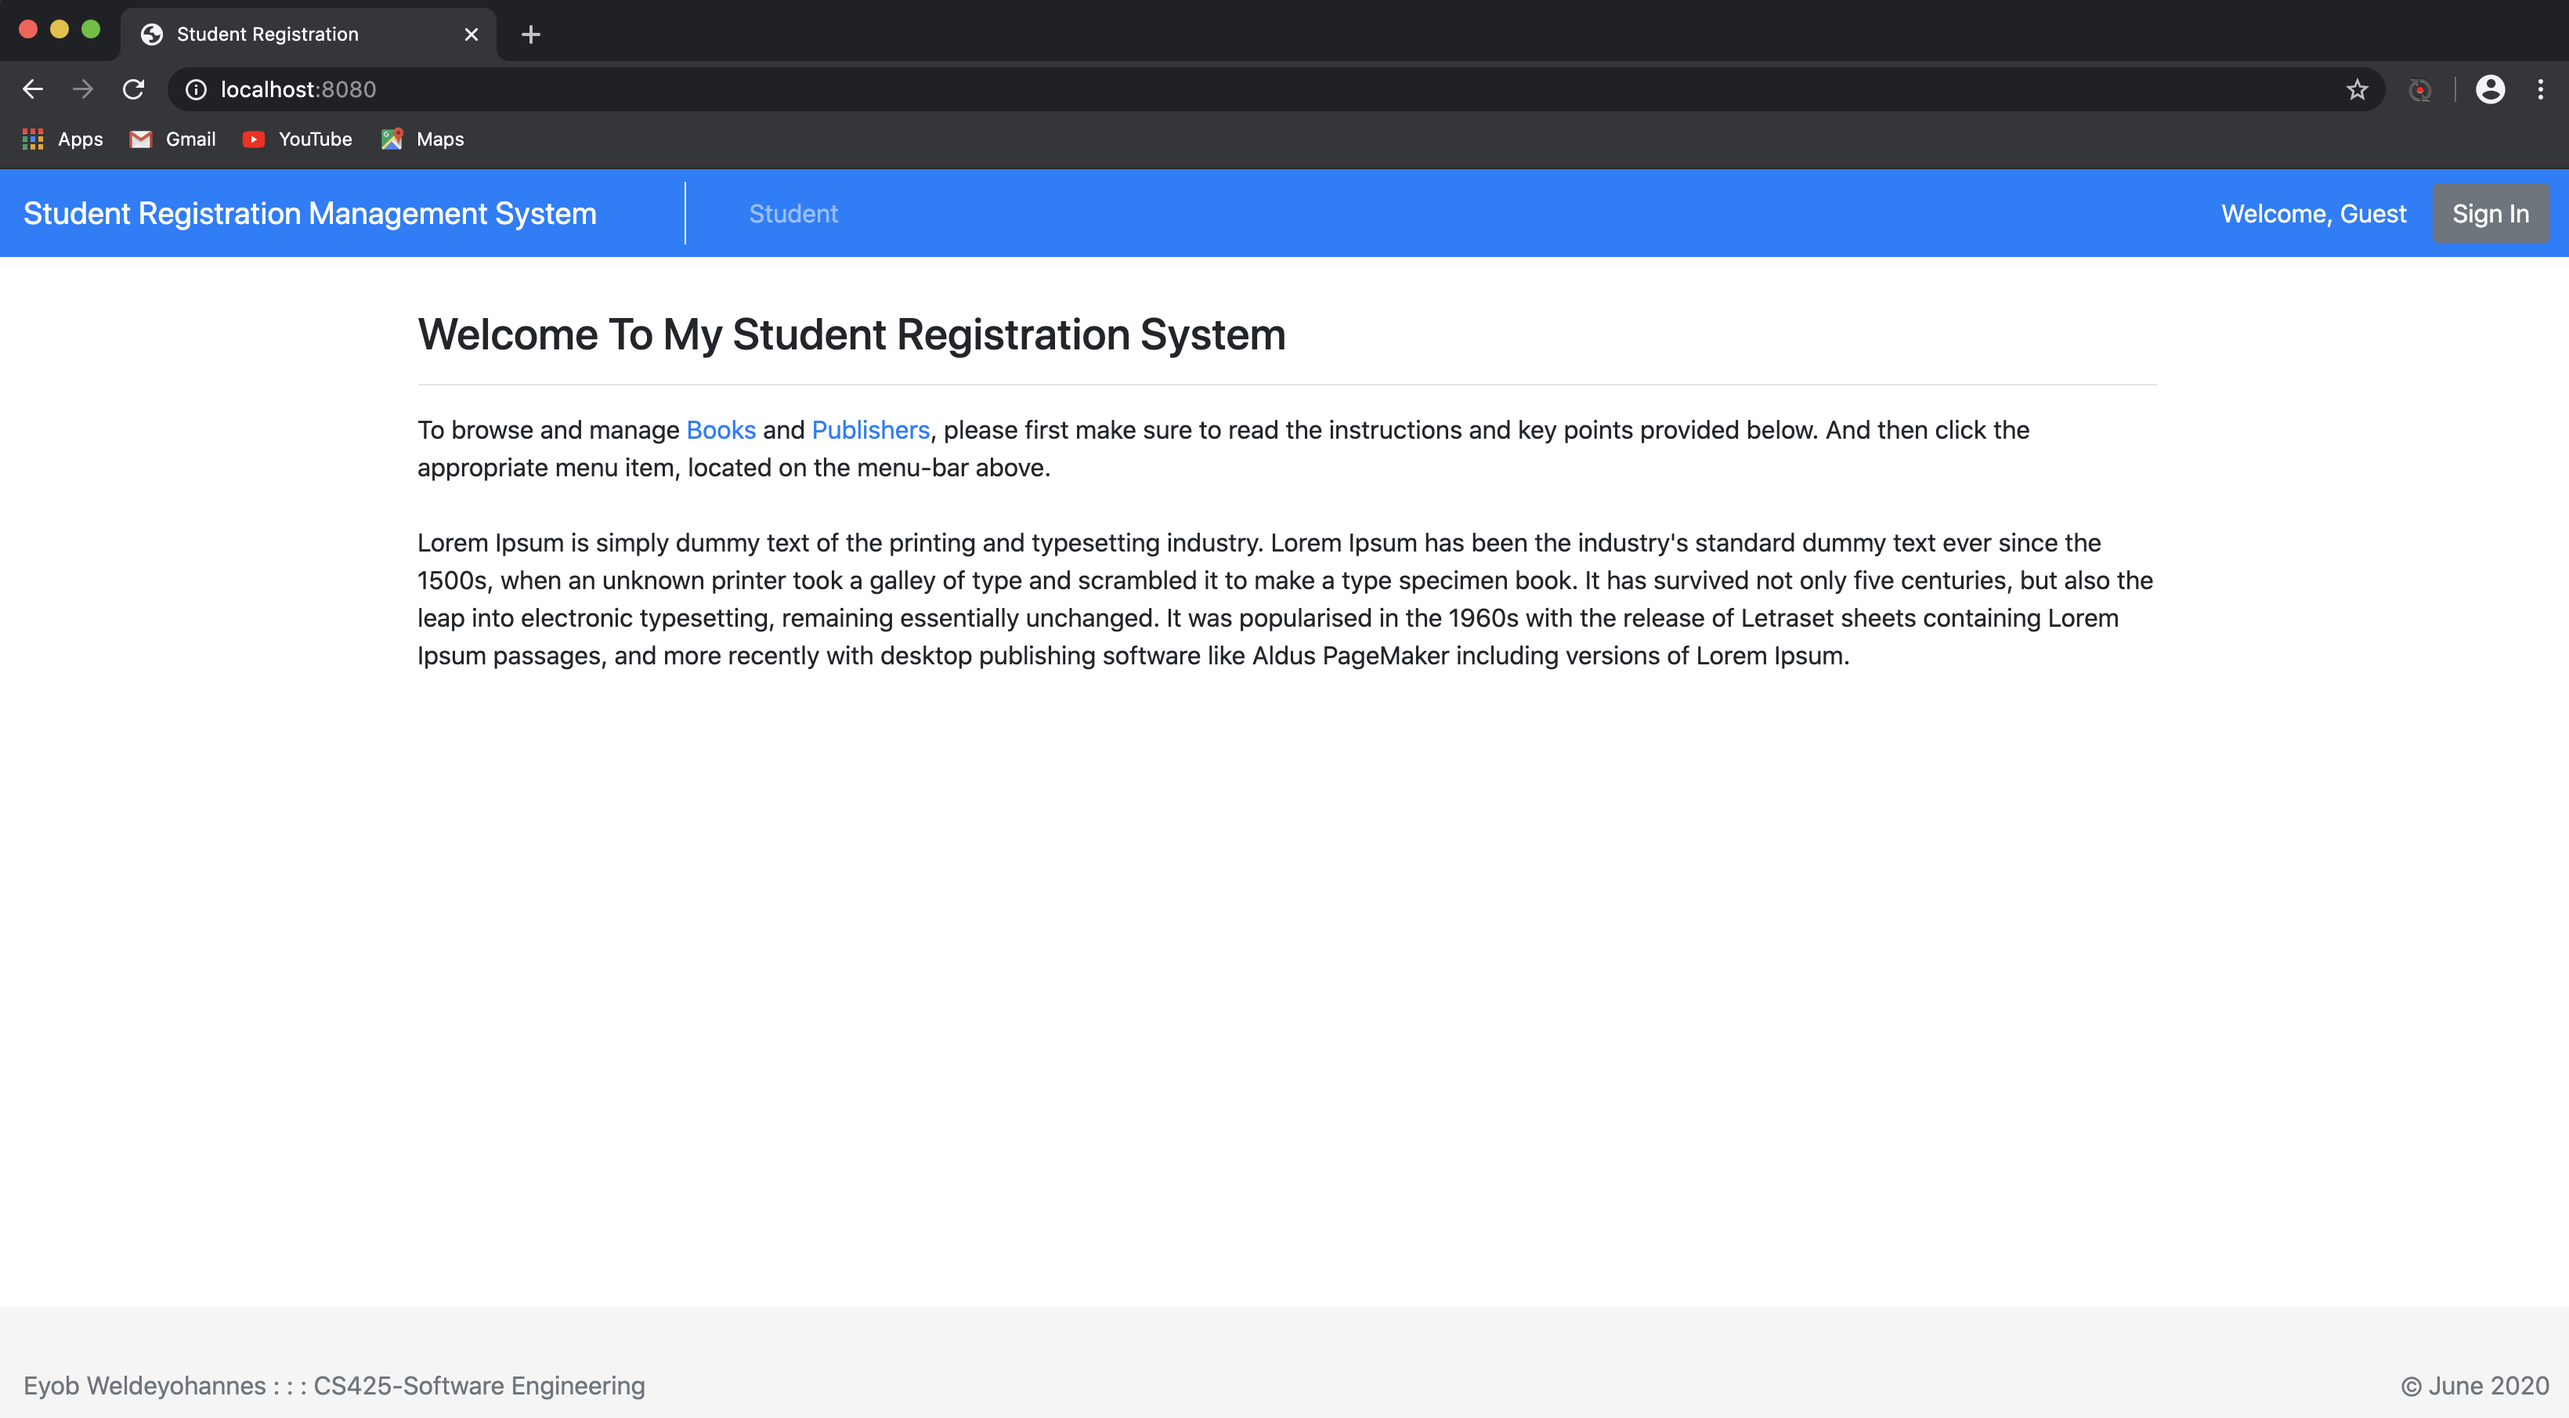
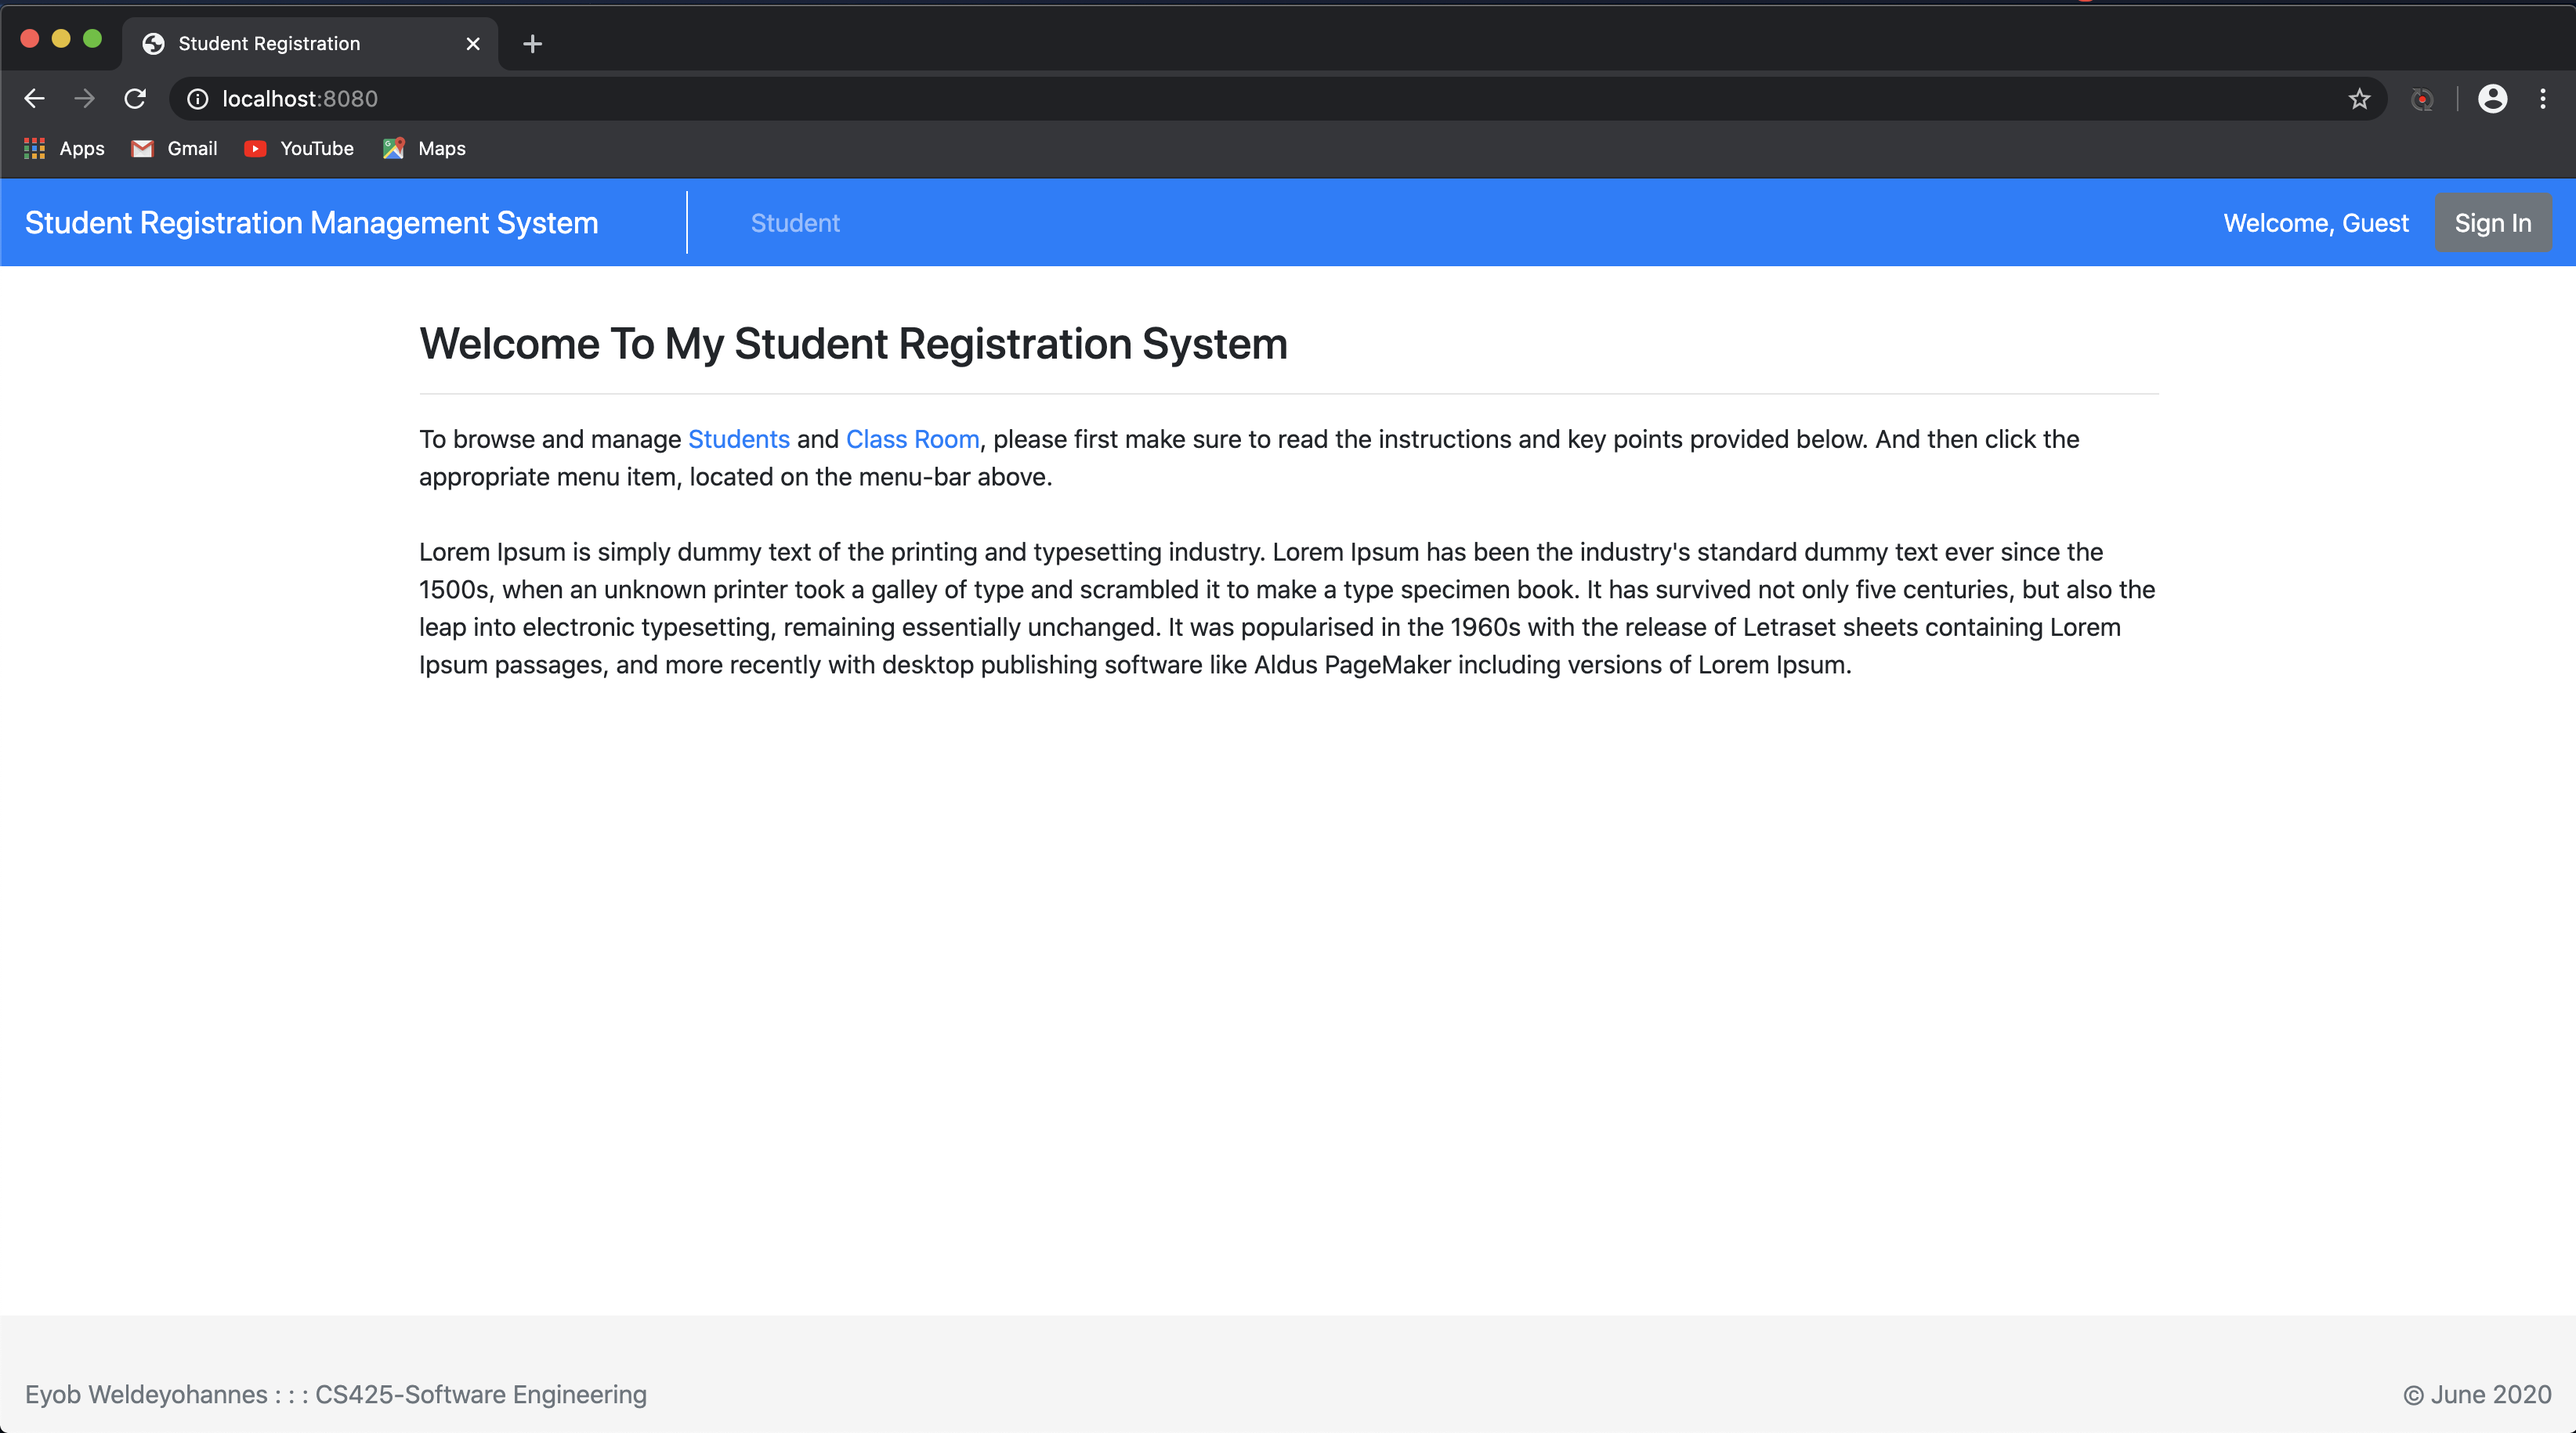
committed

diff --git a/Lab9-eRegistrar/eRegistrar /src/main/resources/templates/home/index.html b/Lab9-eRegistrar/eRegistrar /src/main/resources/templates/home/index.html
@@ -19,8 +19,8 @@
         <h3>Welcome To My Student Registration  System</h3>
         <hr/>
         <div style="font-size: 1em">
-            To browse and manage <a href="/eregistrar/student/list">Books</a> and
-            <a href="/eregistrar/publisher/list">Publishers</a>, please first make sure to read the
+            To browse and manage <a href="/eregistrar/student/list">Students</a> and
+            <a href="/eregistrar/publisher/list">Class Room</a>, please first make sure to read the
             instructions and key points provided below. And then click the
             appropriate menu item, located on the menu-bar above.<br/><br/>
 
